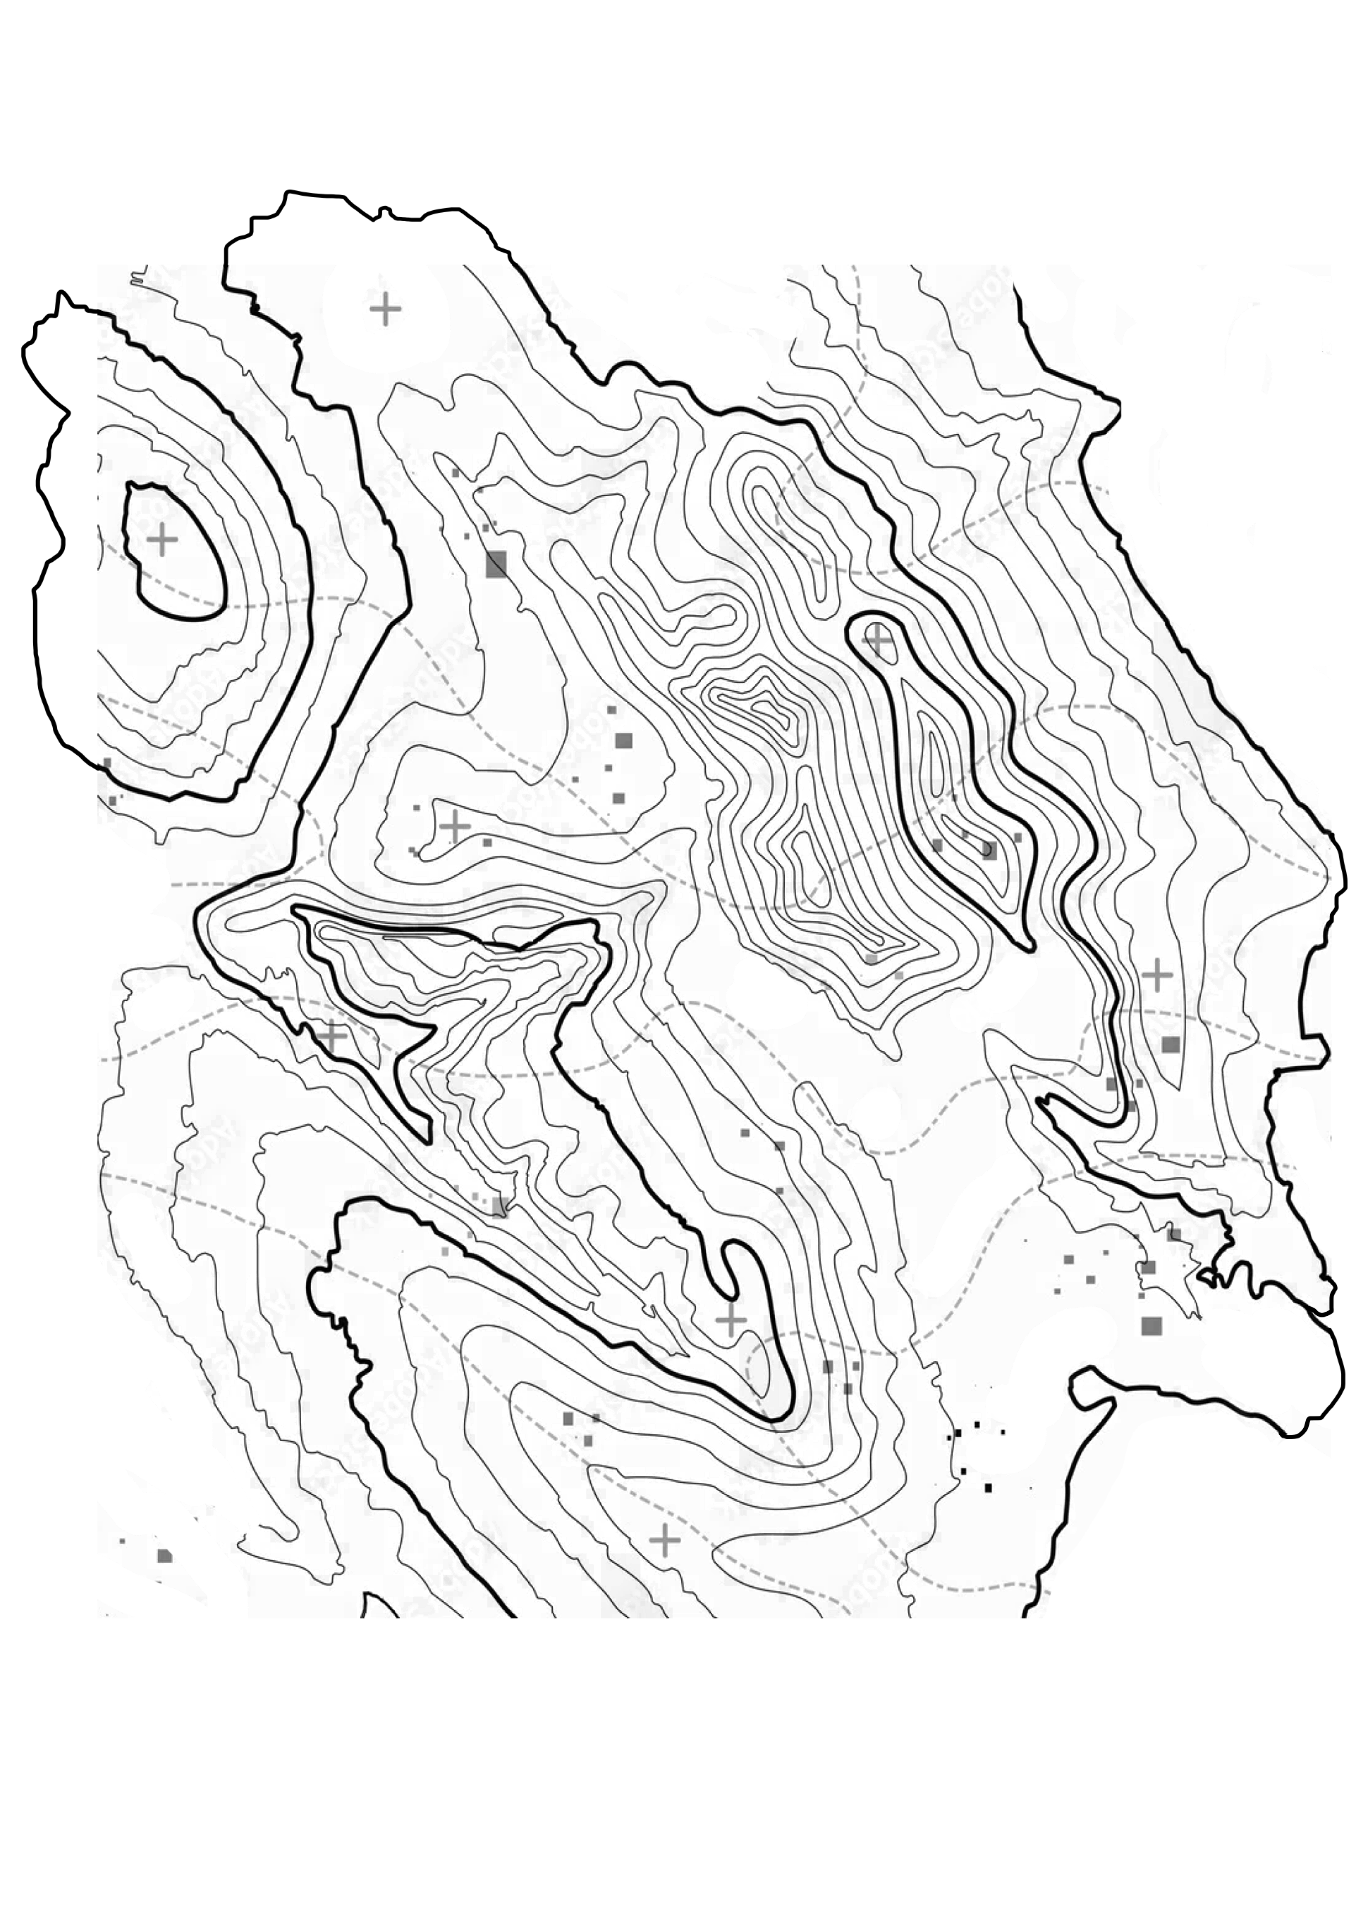
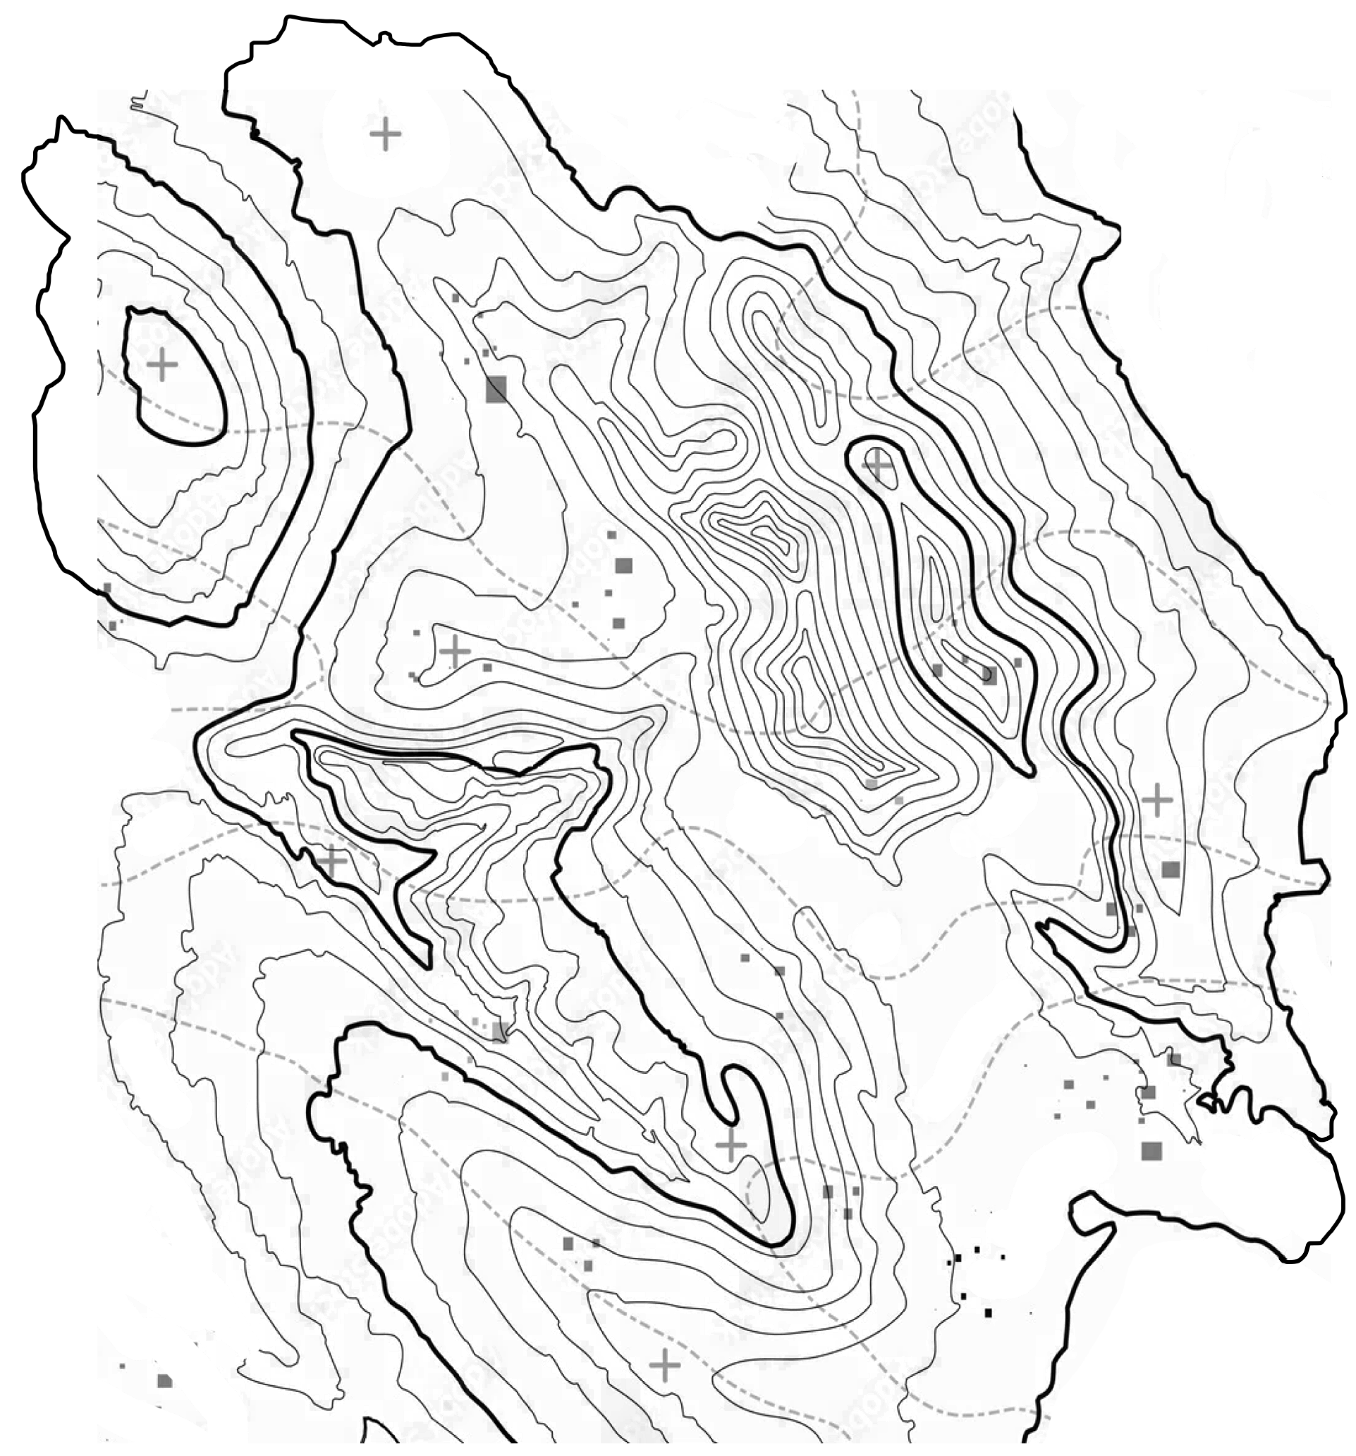
update style

diff --git a/assets/styles.css b/assets/styles.css
@@ -5,17 +5,16 @@
 
 :root, html, body {
     margin: auto;
-    padding: 50px;
-    max-width: 500px;
-    --fontSize: 15px;
+    padding: 80px;
+    max-width: 800px;
+    --fontSize: 17px;
     --sansFont: siteFont, -apple-system, system-ui, BlinkMacSystemFont, "Segoe UI", Roboto;
 }
 
 html {
     background-position: center;
     background-image: url('background.png');
-    background-size: 200vh auto;
-    background-repeat: no-repeat;
+    background-size: 120%;
 }
 
 body {

diff --git a/index.md b/index.md
@@ -1,5 +1,19 @@
-Living Sculptures<br/>Webring<br/><br/>
+Living Sculptures Webring<br/><br/>
 ===
+
+Welcome to a webring by the students of Living Sculpture, a seminar at Universität der Künste Berlin as part of the Time-Based Art with Contemporary Technologies class.
+
+The seminar ran over the winter semester 2024-25. It focused on open systems-oriented art practice. We looked at biological and computational processes in and as artworks, while applying a holistic view to life and sculpture as part of an expanded ecosystem, including experimentation in scientific and technological contexts. Over the course of the semester, we listened to the sounds of microbial life, visited an ‘alt’ cybernetics library, received a talk about ikebana, and experienced a selection of live, living, time-based artworks, among other things. Some of the key readings discussed ‘neural media’, an approach to high-dimensionality suggested by K Allado-McDowell and ‘symbiontics’, a term introduced by Caroline A. Jones that connects the ontic, or “what is” to symbiosis, the condition of “with-living.” A central topic of concern were the possible forms of artisthood at a time when technology permeates every aspect of our lives, within the expanding and differentiating fields of art, and amidst planetary and humanitarian crises.
+
+For their seminar work, the students were asked to create instructionals, or scores for ‘living sculptures’. Future artworks ranging from realistic to fantastical that would be presented as a collection of online entries linked together in a circular structure: sculptures.live! Additionally, a series of silk screen printed posters was made to promote this web publication. The works in the webring range from poetry to code, from tools to instruments, from games to exercises, from scripts to recipes—and everything in between. They include works based in time and time travel; attempts at inter- and intraspecies communication; skins, bones, and ghosts. Reflecting the ways in which the seminar took interest in the boundaries of knowledge, I hope experiencing the participants’ works will make both sense and nonsense.
+
+Jenna Sutela
+Artist, Guest Professor 
+
+<br/><hr/><br/>
+
+# Webring Links
+
 - [Johann Edelmann - MI // MOSS INTELLIGENCE ](https://edelmaan.github.io/mossi/)
 - [Stratos Bichakis - MAGMA](https://www.stratosbichakis.com/magma)
 - [Leo Lou - MicroCatcher](https://leol0u.github.io/MicroCatcher-LL/)
@@ -14,3 +28,41 @@ Living Sculptures<br/>Webring<br/><br/>
 - [Shu Chon - WONDERFRED](https://5ine-w.github.io/shuhu/WF205_e.pdf)
 <!-- - [text](url) -->
 <!-- ^^ add/update your link here in the same form: "- [text](url)" -->
+
+<br/><hr/><br/>
+
+The contributors in alphabetical order:
+
+**Arbor** is an artist and researcher using light as a medium. He creates experiential works in the form of novel interfaces and light-based artifacts and performances in a variety of contexts and environments.
+
+**Diego Behncke's** work is realized through the frameworks of fictional systems, abstraction, and synthesis. Taking form through obfuscation operations involving installations, synthetic sound, and films, his works appear as an abuse of conceptual and technical byproducts, a foregrounding of epistemic faults, and a strategic misdirection of ambiguity.
+
+**Stratos Bichakis'** artistic work centers on experiential installations and performances that transform human senses through digital technologies. He develops artistic tools and instruments, to explore the emotional and transcendent possibilities of sound, light, motion and language.
+
+**Ying Chen's** work explores media, communication tools, emotions, and human consciousness through new media, installation, and video. Initially focused on these relationships, her practice shifted after recovering from social anxiety. Now, she examines personal emotions in relation to nature, collaborating with non-human beings to explore coexistence within the universe.
+
+**Shu Ching Chon** explores human existence and how life and art intersect, correlate, and interchange throughout a person's lifespan. Their work engages with both auditory and visual perception, while also exploring other sensory experiences through the body. Through their practice, they create a medium that connects living beings with the abstract world.
+
+**Linden Derichs** is studying computer science as well as new media art, interested in topics such as emotion and technology, media archeology, queer online cultures and digital intimacy and dealing with them through interactive installations and web art. He doesn’t like to think of his work as only an individual’s creation, and love for it to be woven into collective subconsciousness rather than exhibited. It is a tool for him to speak fully, to be felt in a mind that makes verbal communication fail him at times. To accept ghost like being in the digital realm and hold space for the endless loss and misunderstanding that is acting, wanting, and moving forward to all.
+
+**Philipp Dollinger** is a mixed media artist, who is living and working Berlin. Through the means of technology, such as 3D software, film, sound design and painting he researches the interconnectedness of society, technology and nature through a queer-feminist perspective.
+
+**Johann Edelmann** design’s interactive installations that blend light, sound, and technology to create engaging experiences, inviting viewers to rethink their reality. This concept explores how AI and sensory technology could translate plant intelligence into something perceptible, imagining a world where moss could communicate with us.
+
+**Clemens Fischer** is a German artist born in New Jersey, USA. Through an experimental approach, he questions the current creation and consumption of images by creating automata which use various analogical devices. Clemens Fischer sidesteps the digital medium by taking a stance that gives pride of place to chance, humour and surprise.
+
+**Eva Ingver** is a Uruguayan born multidisciplinary artist interested on movement and an extended understanding of ecosystems, where technology is part of natural ecosystems, and cultural syncretism represent interactions within an ecosystem. She works around performance, installation, video, and sculpture.
+
+**Selenay Kiray** is a Berlin-based artist and researcher working at the intersection of sound, materiality, and biopolitics. With a background in political science and sound studies, her work explores the acoustic and tactile dimensions of perception, often engaging with organic and technological materials.
+
+**Júlia Koffler** is a vocalist, vocal coach and sound artist from Hungary. Her work is informed by vocal research, an interest in timbre and technology, and the relationship between voice and its varied cultural articulations, taking shape through different formats such as installation, video, spatial audio pieces, and performance. Her live shows comprise a use of voice, tape and electronics to explore how vocal expression and its technological mediation unfold in a spatial setting.
+
+**Leo Lou** explores the delicate interplay between living and non-living, organic and artificial. His work delves into unseen interactions and symbiotic entanglements, reflecting on how living beings, technology, and their shared environment coalesce as an interconnected whole.
+
+**Marie Luhmann’s** work explores the moving image in experimental cinematic forms. Her installations project images onto various materials and incorporate spoken word as well as text. Her current project examines the significance of darkness in cities during the winter months, understanding it as part of a symbiotic system that reflects the relationships between humans, nature, and darkness.
+
+**Esteban Pérez's** multidisciplinary work situates his research in specific contexts and involves collaboration with human and more-than-human entities to create images, sounds, objects, and installations. His work explores alternate modes of attention to relate to the more-than-human world, informed by Latin American science fiction and Andean epistemologies.
+
+**Yujin Song‘s** work explores a feeling of aliveness and spatiality. Through alternative narratives within the moving image genre, she experiments with non-human perspectives to free her thoughts from a dominant human-centric viewpoint. Recently, her research has shifted toward examining how marginalized beings within urban structures experience both isolation and connection, as well as visualizing the trace of interactions between humans and non-human beings.
+
+**zouzou** is a wanderer, drifting through diverse fields and territories. Their work explores the unconscious and existence, unfolding in whatever medium suits the journey. Rooted in a pursuit of adventure and intense emotions, their practice seeks to forge connections across the self, others, time, memory, and the world.
